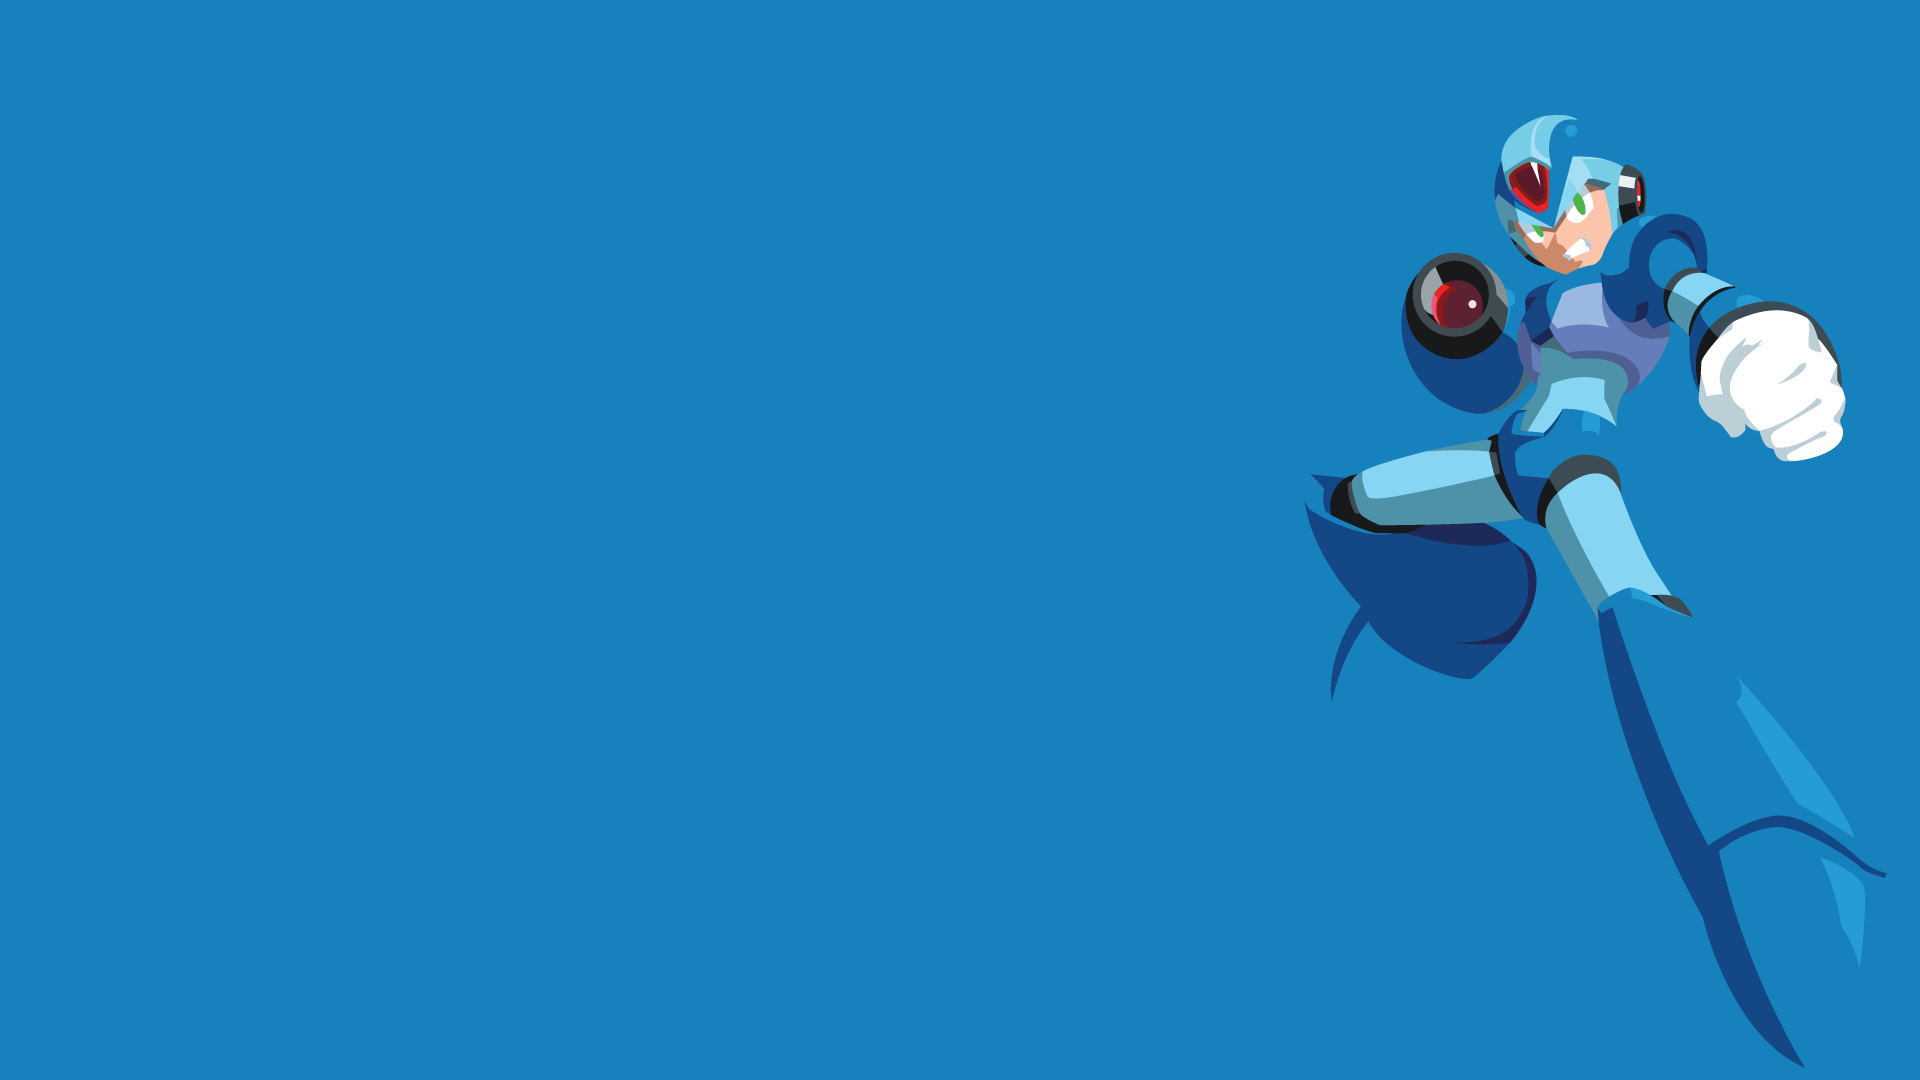
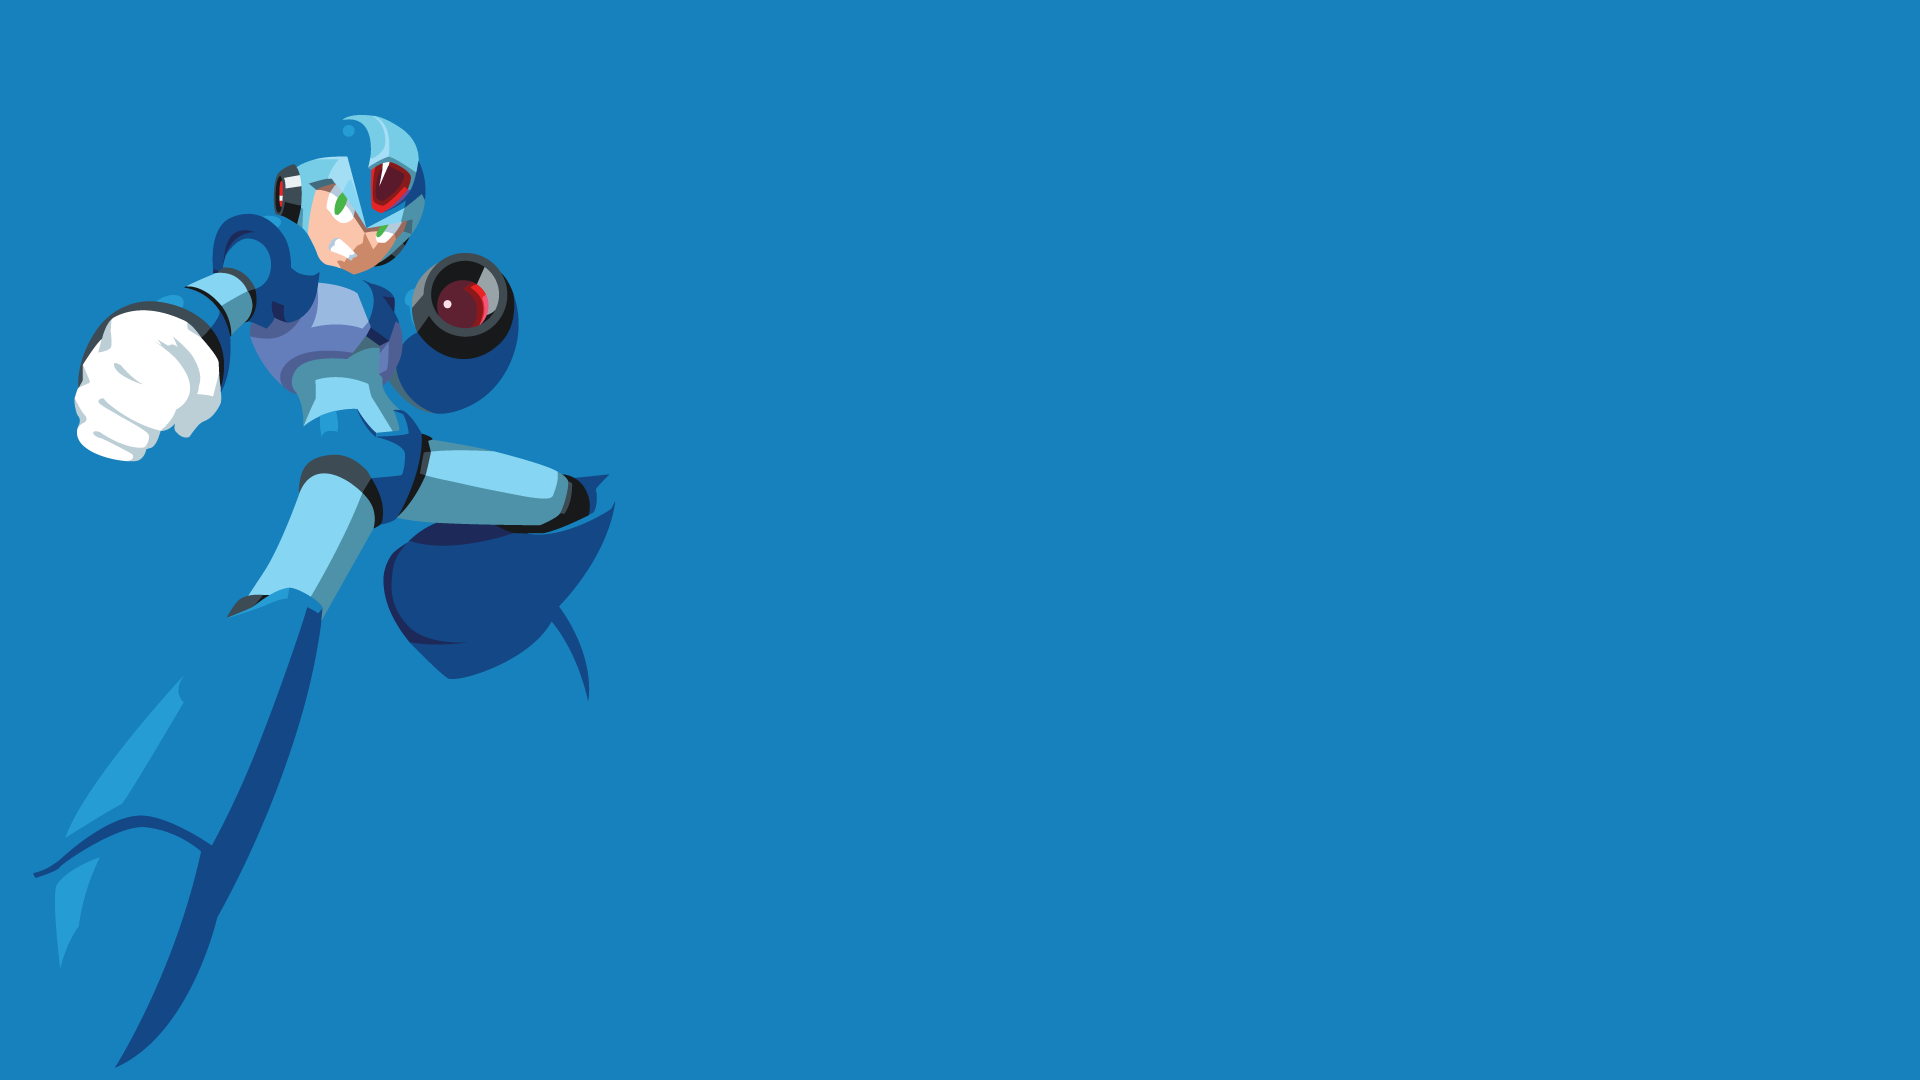
smooth transition

Changed region(s): [[0.6562, 0.0917, 0.9688, 0.9778], [0.0312, 0.0917, 0.3438, 0.9778]]

diff --git a/Split Landing Page/script.js b/Split Landing Page/script.js
@@ -1,9 +1,48 @@
-const left = document.querySelector('.left-slide')
-const right = document.querySelector('.right-slide')
-const container = document.querySelector('.container')
+const left = document.querySelector(".left-slide");
+const right = document.querySelector(".right-slide");
+const container = document.querySelector(".container");
 
-left.addEventListener('mouseenter', () => container.classList.add('hover-left'))
-left.addEventListener('mouseleave', () => container.classList.remove('hover-left'))
+left.addEventListener("mouseenter", () => {
+  container.classList.add("hover-left");
+  const div = createDiv("X");
+  setTimeout(() => div.classList.add("visible"), 1);
+  left.appendChild(div);
+});
 
-right.addEventListener('mouseenter', () => container.classList.add('hover-right'))
-right.addEventListener('mouseleave', () => container.classList.remove('hover-right'))
+left.addEventListener("mouseleave", () => {
+  container.classList.remove("hover-left");
+  removeDiv(left);
+});
+
+right.addEventListener("mouseenter", () => {
+  container.classList.add("hover-right");
+  const div = createDiv("Zero");
+  setTimeout(() => div.classList.add("visible"), 1);
+  right.appendChild(div);
+});
+
+right.addEventListener("mouseleave", () => {
+  container.classList.remove("hover-right");
+  removeDiv(right);
+});
+
+function createDiv(text) {
+  const div = document.createElement("div");
+  fetch("./data.json")
+    .then((response) => response.json())
+    .then((data) => {
+        div.textContent = data[text];
+        div.classList.add(text.toLowerCase());
+        div.classList.add("description"); // 2000 milliseconds = 2 seconds
+    })
+    .catch((error) => console.error("Error fetching JSON:", error));
+  return div;
+}
+
+function removeDiv(container) {
+  const div = container.querySelector("div");
+  if (div) {
+    div.classList.remove("visible");
+    container.removeChild(div);
+  }
+}

diff --git a/Split Landing Page/style.css b/Split Landing Page/style.css
@@ -17,7 +17,7 @@ h1 {
     font-size: 4rem;
     color: #fff;
     position: absolute;
-    top: 0%;
+    top: -5%;
     left: 50%;
     transform: translateX(-50%);
     white-space: nowrap;
@@ -39,12 +39,11 @@ h1 {
   height: 100%;
 }
 .left-slide {
-  background-position: right;
+  background-position: left;
   left: 0;
   background-repeat: no-repeat;
   background-size: cover;
   /* transition: transform 0.5s ease-in-out; */
-  transform: scaleX(-1);
 }
 .right-slide::before {
   position: absolute;
@@ -79,4 +78,32 @@ h1 {
 
 .hover-right .left-slide {
   width: var(--other-width);
+}
+
+.description {
+  display: flex;
+  flex-direction: column;
+  justify-content: center;
+  width: 50%;
+  height: 50%;
+  font-size: 20px;
+  margin: 0px 10px;
+  bottom: 10px;
+  padding: 5px 5px;
+  border-radius: 20px;
+  position: absolute;
+  background-color: rgba(
+    255,
+    255,
+    255,
+    0.8
+  ); 
+  opacity: 0;
+  transition: opacity 2s ease-in-out;
+}
+.description.visible {
+  opacity: 1;
+}
+.x {
+  right: 0;
 }
